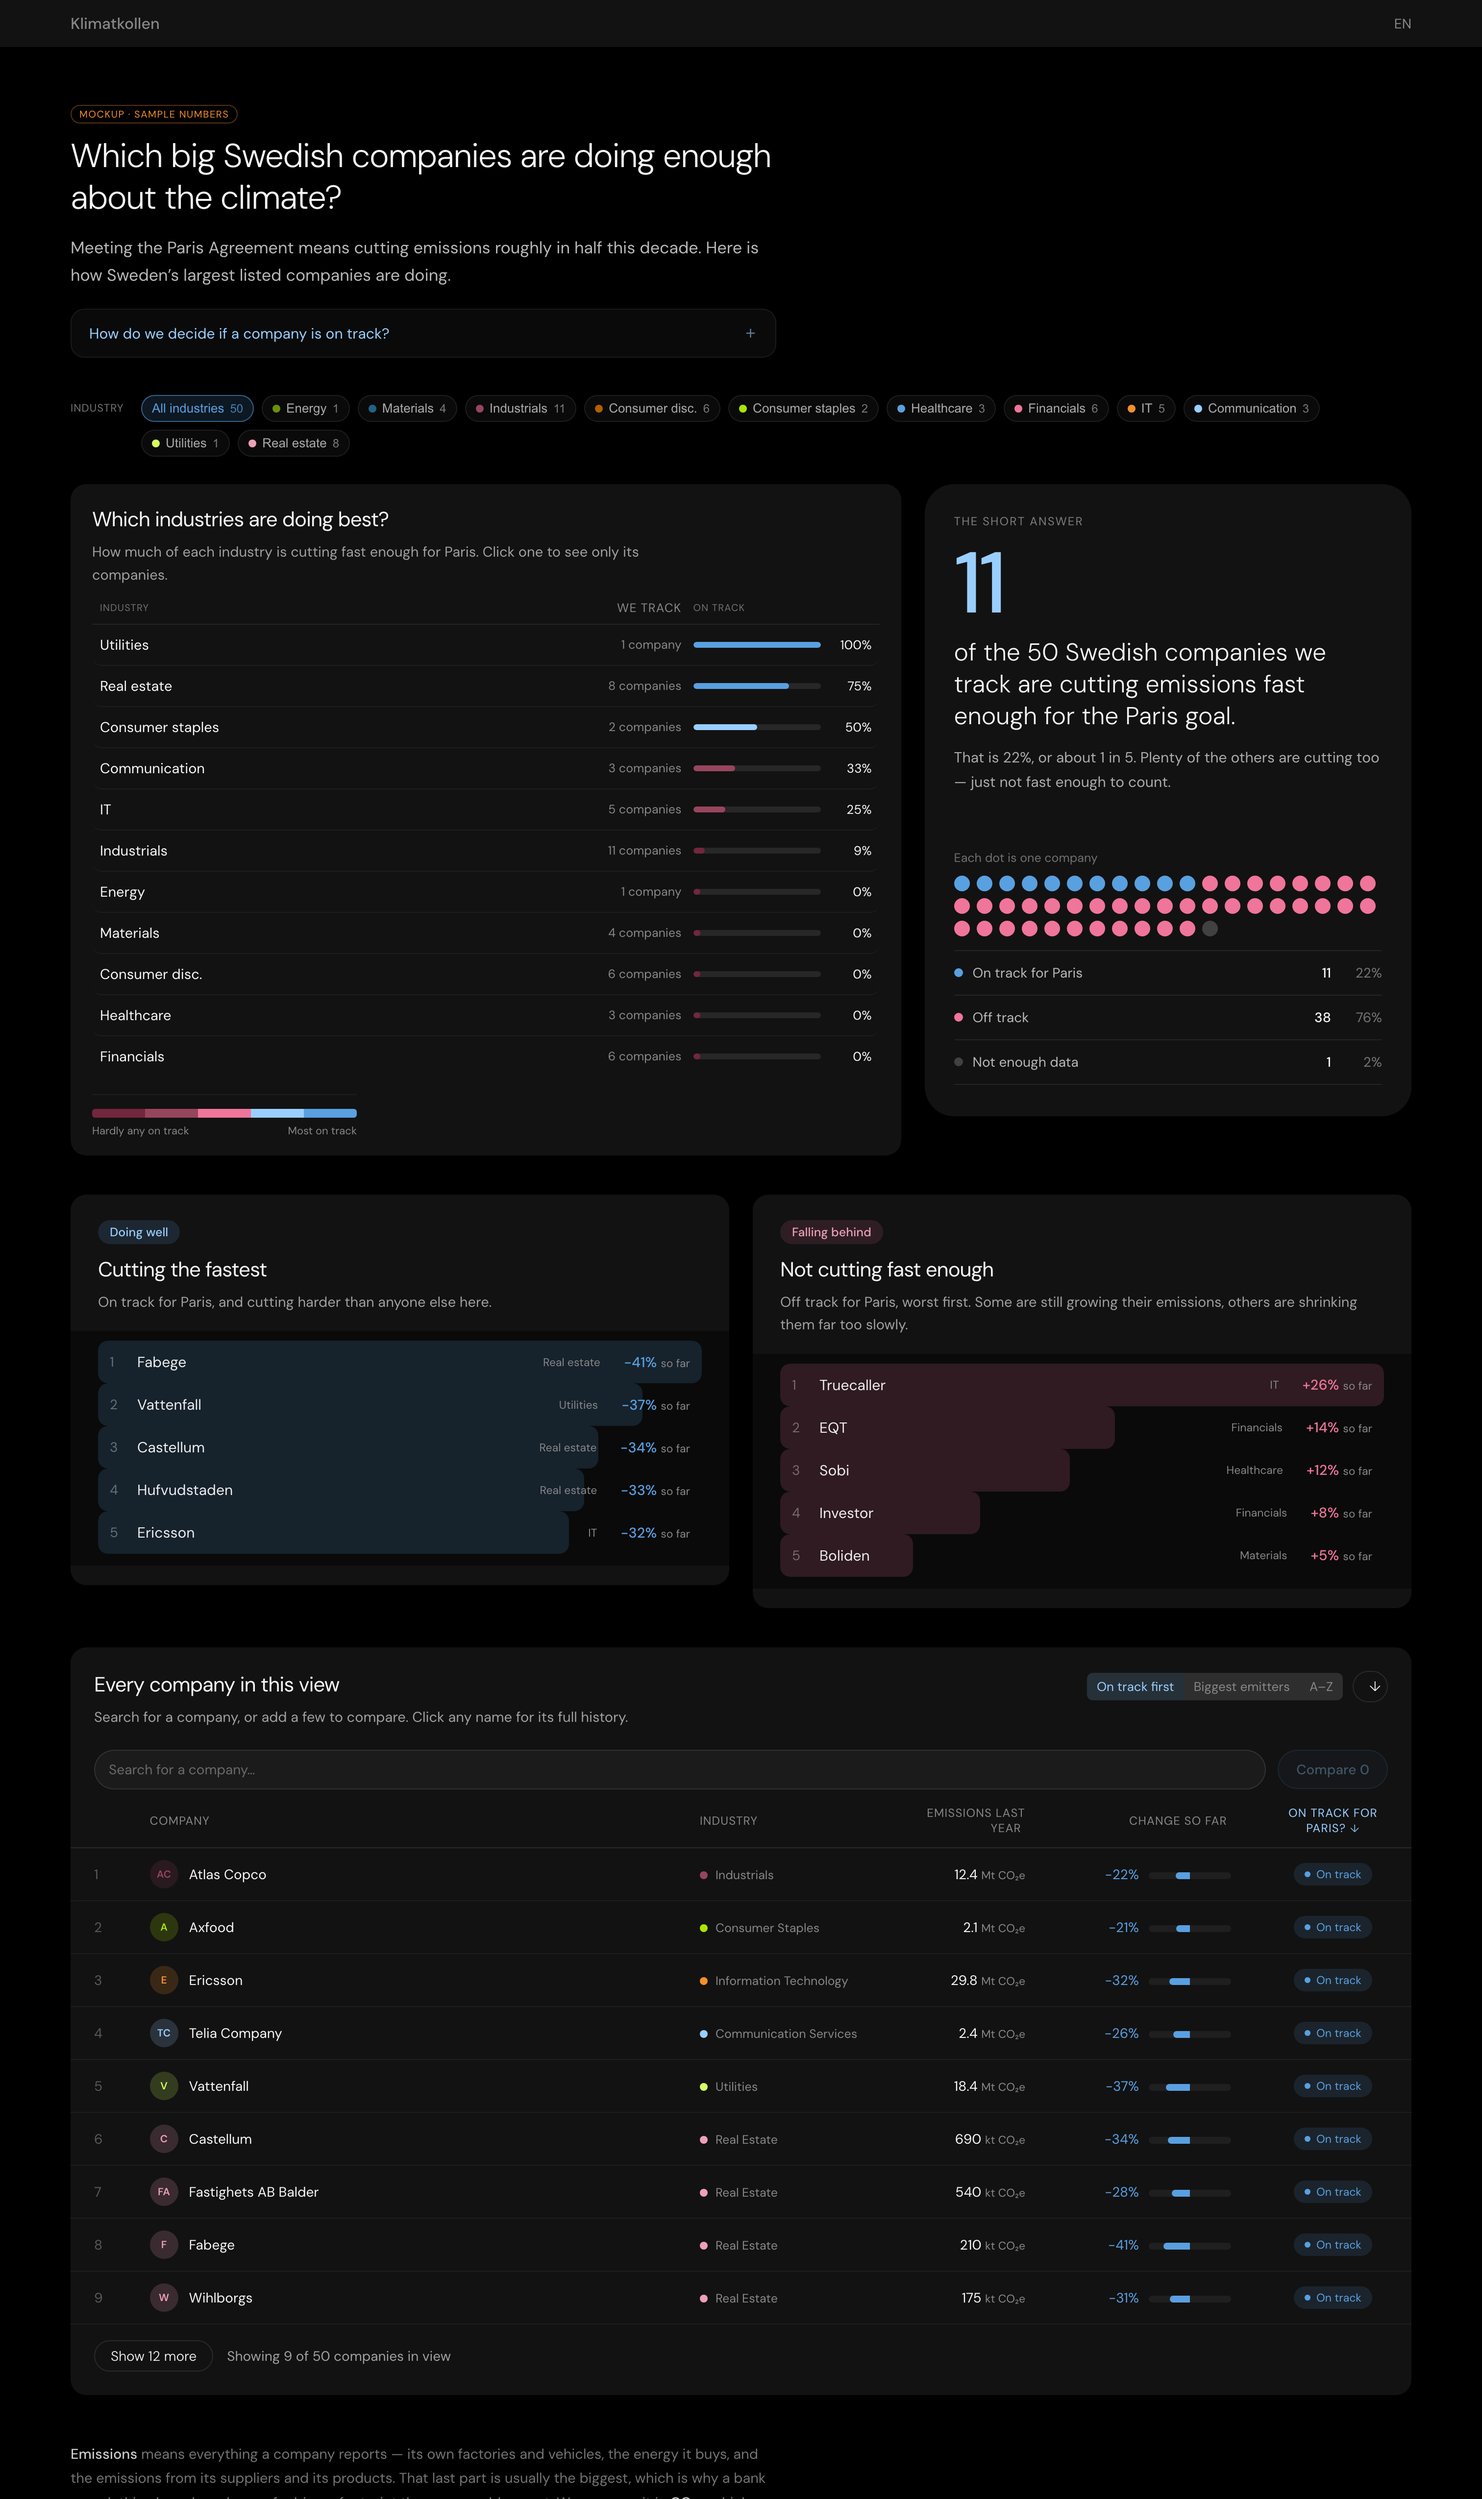
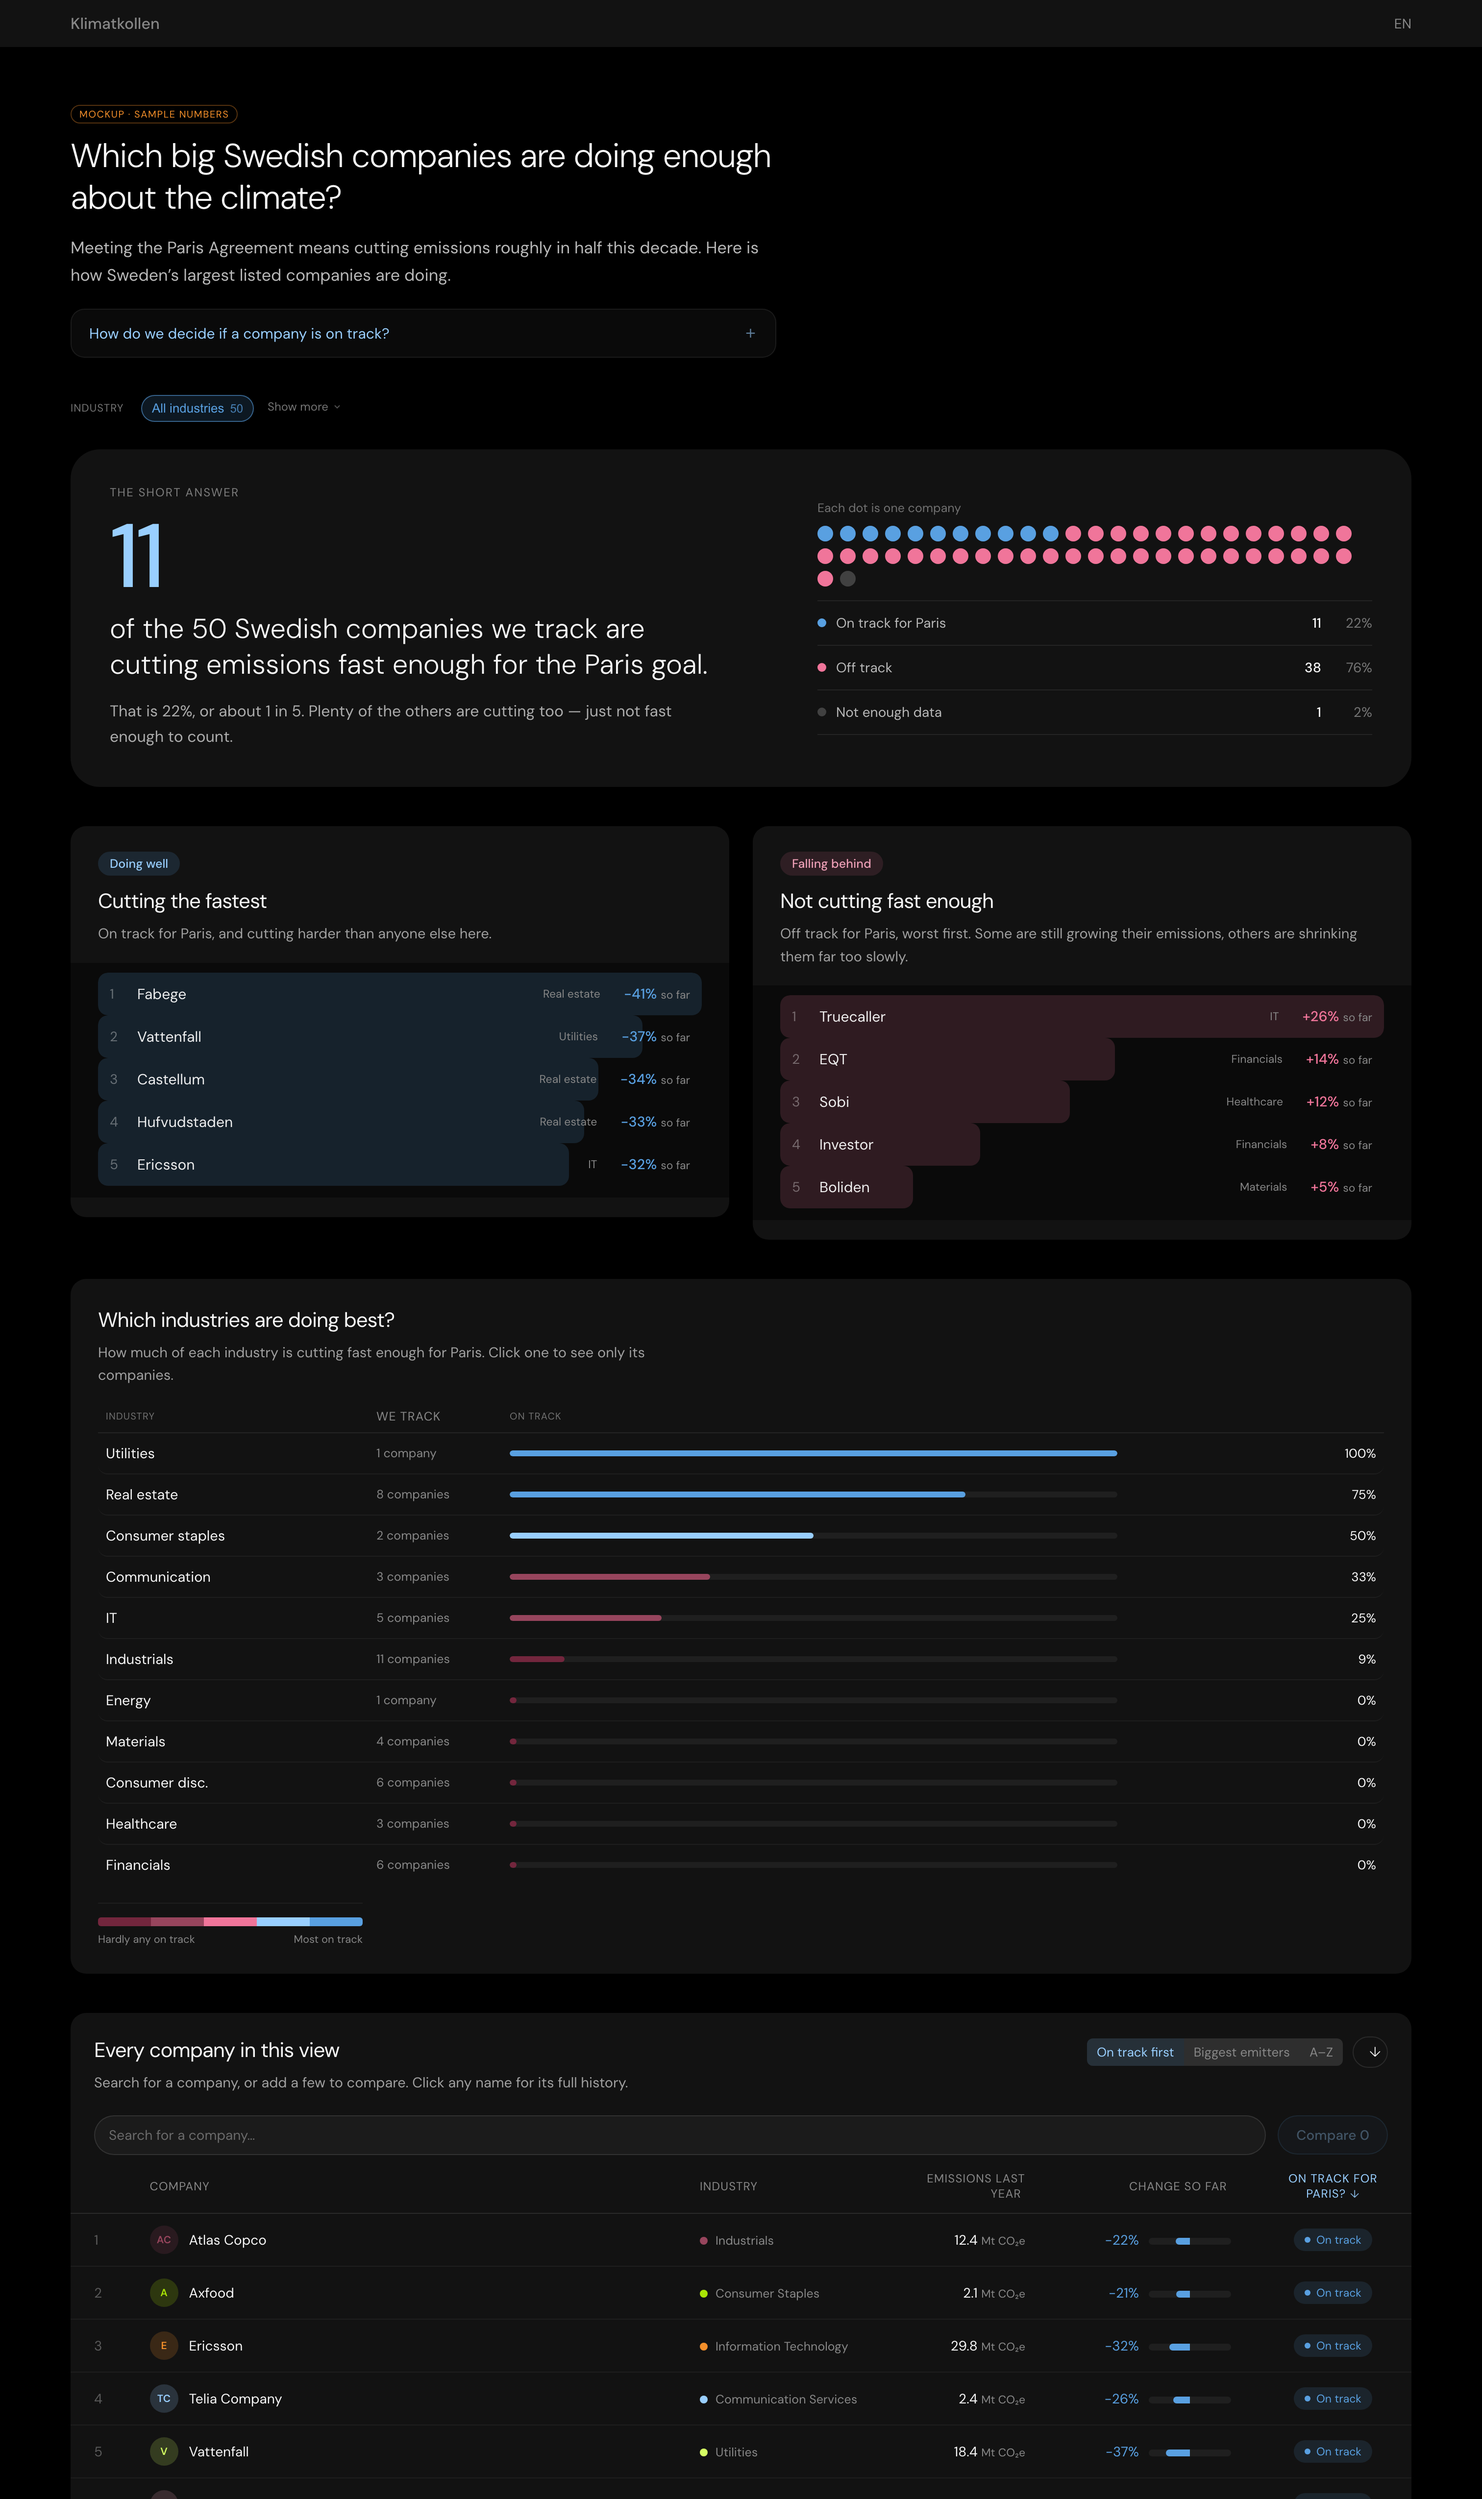
[feat] Restack company explorer mockup and collapse industry filter
Move the short answer to a full-width card under the filters, splitting
it into sentence and breakdown columns so neither stretches the shell.
Move the industry ranking below the verdict cards at full width, with
the bar column capped so 0% rows don't read as a long empty track.

The industry chips now start collapsed to "All industries" with a
Show more / Show less toggle. A desktop override had been forcing every
chip visible and hiding the toggle above 760px; the collapsed state
also keeps the "All industries" chip so clearing a selection stays one
click away.

diff --git a/mockups/company-explorer/index.html b/mockups/company-explorer/index.html
@@ -282,10 +282,9 @@
         flex: 1;
         min-width: 0;
       }
-      .chipgroup.collapsed .chiprow .chip:not(.on) {
-        display: none;
-      }
-      .chipgroup.collapsed .seg button:not(.on) {
+      /* Collapsed shows the "All industries" chip plus whatever is selected,
+         so the way back to everything is always one click away. */
+      .chipgroup.collapsed .chiprow .chip:not(.on):not([data-sec=""]) {
         display: none;
       }
       .filtertoggle {
@@ -429,11 +428,22 @@
         margin-bottom: 40px;
       }
 
-      /* ---------- the headline answer ---------- */
+      /* ---------- the headline answer ----------
+       * Full width, but the sentence and the breakdown sit side by side so
+       * neither has to stretch the whole shell to stay legible.
+       */
       .answer {
         background: var(--black-2);
         border-radius: var(--r2);
-        padding: 32px 36px 34px;
+        padding: 36px 40px 38px;
+        display: grid;
+        grid-template-columns: minmax(0, 1fr) minmax(340px, 0.85fr);
+        gap: 56px;
+        align-items: center;
+      }
+      /* The "no matches" and "nothing to judge" states have no breakdown. */
+      .answer.solo {
+        display: block;
       }
       .answer .akicker {
         font-size: 12px;
@@ -443,29 +453,29 @@
         margin: 0 0 14px;
       }
       .answer .ahead {
-        font-size: 30px;
+        font-size: 28px;
         font-weight: 300;
         line-height: 1.3;
         margin: 0;
-        max-width: 780px;
+        max-width: 620px;
       }
       /* The count leads on its own line so the sentence completes it. */
       .answer .ahead .anum {
         display: block;
-        font-size: 68px;
+        font-size: 92px;
         font-weight: 500;
         line-height: 0.95;
         letter-spacing: -0.04em;
         color: var(--blue-2);
-        margin-bottom: 10px;
+        margin-bottom: 12px;
         font-variant-numeric: tabular-nums;
       }
       .answer .asub {
         font-size: 16px;
         line-height: 1.65;
         color: rgba(255, 255, 255, 0.65);
-        margin: 14px 0 0;
-        max-width: 680px;
+        margin: 16px 0 0;
+        max-width: 620px;
       }
 
       /* One dot per company, on-track first, with the three groups written out
@@ -473,7 +483,7 @@
       .adotnote {
         font-size: 12.5px;
         color: rgba(255, 255, 255, 0.4);
-        margin: 24px 0 0;
+        margin: 0;
       }
       /* Dot size is set per render so a handful of companies still fills the
          block instead of trailing off as a single sparse row. */
@@ -498,7 +508,7 @@
         display: flex;
         align-items: center;
         gap: 10px;
-        padding: 11px 0;
+        padding: 13px 0;
         font-size: 14px;
         border-top: 1px solid rgba(255, 255, 255, 0.08);
       }
@@ -572,51 +582,7 @@
       }
 
       /* ---------- map hero: map + short answer side by side ---------- */
-      .maphero {
-        display: grid;
-        grid-template-columns: minmax(0, 1.45fr) minmax(280px, 0.85fr);
-        gap: 24px;
-        align-items: stretch;
-        margin-bottom: 40px;
-      }
-      .maphero-main {
-        padding: 22px 22px 18px;
-        min-width: 0;
-      }
-      .maphero-main .cardhead {
-        margin-bottom: 14px;
-      }
-      .maphero-side {
-        min-width: 0;
-        display: flex;
-      }
-      /* Sentence at the top, breakdown pinned to the bottom, so the card fills
-         the map's height instead of floating in the middle of it. */
-      .maphero-side .answer {
-        flex: 1;
-        display: flex;
-        flex-direction: column;
-        padding: 30px 30px 32px;
-      }
-      .maphero-side .answer .ahead {
-        font-size: 25px;
-        max-width: none;
-      }
-      .maphero-side .answer .ahead .anum {
-        font-size: 88px;
-        margin-bottom: 12px;
-      }
-      .maphero-side .answer .asub {
-        font-size: 15px;
-      }
-      .maphero-side .answer .adotnote {
-        margin-top: auto;
-      }
-      .maphero-side .answer .akey > div {
-        padding: 13px 0;
-      }
-
-      /* ---------- industry ranking, beside the short answer ---------- */
+      /* ---------- industry ranking, full width under the verdicts ---------- */
       .seccard {
         background: var(--black-2);
         display: flex;
@@ -627,12 +593,17 @@
         flex-direction: column;
         flex: 1;
       }
+      /* Column 4 is an empty spacer: it keeps the bar a readable length at
+         full width instead of stretching it the whole shell, while the
+         percentage stays pinned to the right edge. */
       .shead,
       .srow {
         display: grid;
-        grid-template-columns: 1fr auto minmax(70px, 130px) 40px;
+        grid-template-columns:
+          minmax(140px, 260px) 120px minmax(0, 620px)
+          minmax(0, 1fr) 52px;
         align-items: center;
-        gap: 12px;
+        gap: 16px;
       }
       .shead {
         padding: 0 8px 8px;
@@ -677,7 +648,7 @@
       .sbar {
         height: 6px;
         border-radius: 999px;
-        background: rgba(255, 255, 255, 0.09);
+        background: rgba(255, 255, 255, 0.06);
         overflow: hidden;
       }
       /* An industry with nobody on track still gets a stub of the ramp's worst
@@ -689,6 +660,7 @@
         border-radius: 999px;
       }
       .spct {
+        grid-column: -2 / -1;
         font-size: 13px;
         text-align: right;
         font-variant-numeric: tabular-nums;
@@ -1195,6 +1167,7 @@
       /* Lets a screenshot capture just the top of the page (?frame=top) so the
          mobile layout can be shown without a 4000px strip. */
       body.frame-top .verdicts,
+      body.frame-top .seccard,
       body.frame-top .tablecard,
       body.frame-top footer.note {
         display: none;
@@ -1213,7 +1186,7 @@
          relying on scroll position at screenshot time. */
       body.frame-lower .pagehead,
       body.frame-lower .scopebar,
-      body.frame-lower .maphero {
+      body.frame-lower .answer {
         display: none;
       }
       body.frame-lower .filterfab {
@@ -1251,16 +1224,12 @@
           min-width: 0;
           align-items: flex-start;
         }
+        /* Not flex:1 — the toggle should sit beside the chips it reveals,
+           not pinned to the far edge of an otherwise empty bar. */
         .filterfacet .chiprow {
-          flex: 1;
+          flex: 0 1 auto;
           flex-wrap: wrap;
           gap: 8px;
-        }
-        .filterfacet .chipgroup.collapsed .chiprow .chip:not(.on) {
-          display: inline-flex;
-        }
-        .filterfacet .filtertoggle {
-          display: none;
         }
       }
 
@@ -1295,17 +1264,22 @@
           font-size: 14.5px;
         }
 
+        /* Too narrow for two columns: the breakdown drops under the sentence. */
         .answer {
+          display: block;
           padding: 22px 20px 24px;
         }
         .answer .ahead {
           font-size: 22px;
         }
+        .answer .ahead .anum {
+          font-size: 68px;
+        }
         .answer .asub {
           font-size: 15px;
         }
         .adotnote {
-          margin-top: 18px;
+          margin-top: 20px;
         }
         .adots i {
           width: 10px;
@@ -1375,9 +1349,6 @@
           padding: 2px 4px;
           font-size: 11px;
         }
-        .filtertoggle .toggle-label {
-          display: none;
-        }
         .chip {
           padding: 4px 8px;
           font-size: 12px;
@@ -1391,22 +1362,6 @@
           padding: 0 8px;
           font-size: 12px;
         }
-        /* Stacked, the answer has to lead — the industries are the follow-up. */
-        .maphero {
-          grid-template-columns: 1fr;
-          gap: 16px;
-          margin-bottom: 24px;
-        }
-        .maphero-side {
-          order: -1;
-        }
-        .maphero-main {
-          padding: 14px;
-        }
-        .maphero-side .answer {
-          padding: 22px 20px 24px;
-        }
-
         .seccard .cardhead {
           margin-bottom: 10px;
         }
@@ -1573,8 +1528,8 @@
               data-filter="sector"
               aria-expanded="false"
             >
-              <span class="when-collapsed toggle-label">More</span>
-              <span class="when-expanded toggle-label">Less</span>
+              <span class="when-collapsed toggle-label">Show more</span>
+              <span class="when-expanded toggle-label">Show less</span>
               <svg width="10" height="10" viewBox="0 0 24 24" fill="none" stroke="currentColor" stroke-width="2.5">
                 <path d="M6 9l6 6 6-6" />
               </svg>
@@ -1586,31 +1541,28 @@
     </div>
 
     <div class="shell">
-      <section class="maphero">
-        <div class="card seccard maphero-main">
-          <div class="cardhead">
-            <div>
-              <h2>Which industries are doing best?</h2>
-              <p>
-                How much of each industry is cutting fast enough for Paris.
-                Click one to see only its companies.
-              </p>
-            </div>
-          </div>
-          <div class="seclist" id="sector-list"></div>
-          <div class="secfoot">
-            <div class="ramp" id="sector-ramp"></div>
-            <div class="rampscale">
-              <span>Hardly any on track</span><span>Most on track</span>
-            </div>
-          </div>
-        </div>
-        <aside class="maphero-side">
-          <section class="answer" id="answer"></section>
-        </aside>
-      </section>
+      <section class="answer" id="answer"></section>
 
       <section class="verdicts" id="notable"></section>
+
+      <section class="card seccard">
+        <div class="cardhead">
+          <div>
+            <h2>Which industries are doing best?</h2>
+            <p>
+              How much of each industry is cutting fast enough for Paris.
+              Click one to see only its companies.
+            </p>
+          </div>
+        </div>
+        <div class="seclist" id="sector-list"></div>
+        <div class="secfoot">
+          <div class="ramp" id="sector-ramp"></div>
+          <div class="rampscale">
+            <span>Hardly any on track</span><span>Most on track</span>
+          </div>
+        </div>
+      </section>
 
       <section class="card tablecard">
         <div class="cardhead">
@@ -1874,6 +1826,9 @@
       function renderAnswer(s) {
         const el = document.getElementById("answer");
 
+        // Without a breakdown there is no second column to fill.
+        el.classList.toggle("solo", s.n === 0 || !s.known);
+
         if (s.n === 0) {
           el.innerHTML = `
             <p class="akicker">The short answer</p>
@@ -1923,15 +1878,19 @@
           </div>`;
 
         el.innerHTML = `
-          <p class="akicker">The short answer</p>
-          <p class="ahead">${head}</p>
-          <p class="asub">${sub}</p>
-          <p class="adotnote">Each dot is one company</p>
-          <div class="adots" style="--dot:${dotSize}px;--dotgap:${dotGap}px" aria-hidden="true">${dots}</div>
-          <div class="akey">
-            ${keyRow("var(--blue-3)", "On track for Paris", s.yes)}
-            ${keyRow("var(--pink-3)", "Off track", s.no)}
-            ${keyRow("var(--nodata)", "Not enough data", s.unknown)}
+          <div class="acopy">
+            <p class="akicker">The short answer</p>
+            <p class="ahead">${head}</p>
+            <p class="asub">${sub}</p>
+          </div>
+          <div class="abreak">
+            <p class="adotnote">Each dot is one company</p>
+            <div class="adots" style="--dot:${dotSize}px;--dotgap:${dotGap}px" aria-hidden="true">${dots}</div>
+            <div class="akey">
+              ${keyRow("var(--blue-3)", "On track for Paris", s.yes)}
+              ${keyRow("var(--pink-3)", "Off track", s.no)}
+              ${keyRow("var(--nodata)", "Not enough data", s.unknown)}
+            </div>
           </div>`;
       }
 
